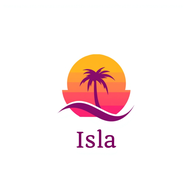
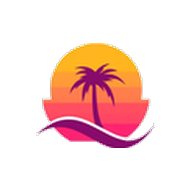
Allinea colori e icone PWA per uno splash nativo senza stacco
Lo splash nativo che il sistema mostra all'apertura della PWA (prima
che qualsiasi codice della pagina venga eseguito) usava ancora colori
vecchi: manifest.json aveva "theme_color": "#7d126d" (il magenta di
una versione precedente del sito), da cui la striscia viola in alto
segnalata dall'utente, con uno sfondo leggermente diverso da quello
attuale. Portati entrambi a #f7f2ec, la crema già usata nel resto del
sito, così lo splash nativo si fonde con quello animato della pagina
invece di essere un lampo di colore sbagliato (lo splash nativo del
sistema operativo non può essere del tutto eliminato, solo reso
visivamente continuo).

Anche le icone icon-192.png e icon-512.png avevano lo stesso difetto
del vecchio logo-isla.png: sfondo bianco pieno con simbolo e scritta
"Isla" piccoli al centro. Rimosso lo sfondo (trasparente) e tenuto
solo il simbolo, ricentrato. icon-maskable-512.png (esistente ma mai
collegata nel manifest) ora ha sfondo crema pieno invece del vecchio
magenta, ed è collegata in manifest.json con "purpose": "maskable" —
così Android può ritagliarla in sicurezza senza lasciare aree vuote.

Claude-Session: https://claude.ai/code/session_01VYeqqugeBPR3qMdrc7RMaK

Changed region(s): [[0.1875, 0.2188, 0.8125, 0.7812]]

diff --git a/sw.js b/sw.js
@@ -1,4 +1,4 @@
-const CACHE_NAME = "isla-v20";
+const CACHE_NAME = "isla-v21";
 const ASSETS = [
   "./",
   "./index.html",
@@ -10,7 +10,8 @@ const ASSETS = [
   "./manifest.json",
   "./assets/logo-isla.png",
   "./assets/icon-192.png",
-  "./assets/icon-512.png"
+  "./assets/icon-512.png",
+  "./assets/icon-maskable-512.png"
 ];
 
 self.addEventListener("install", event => {
